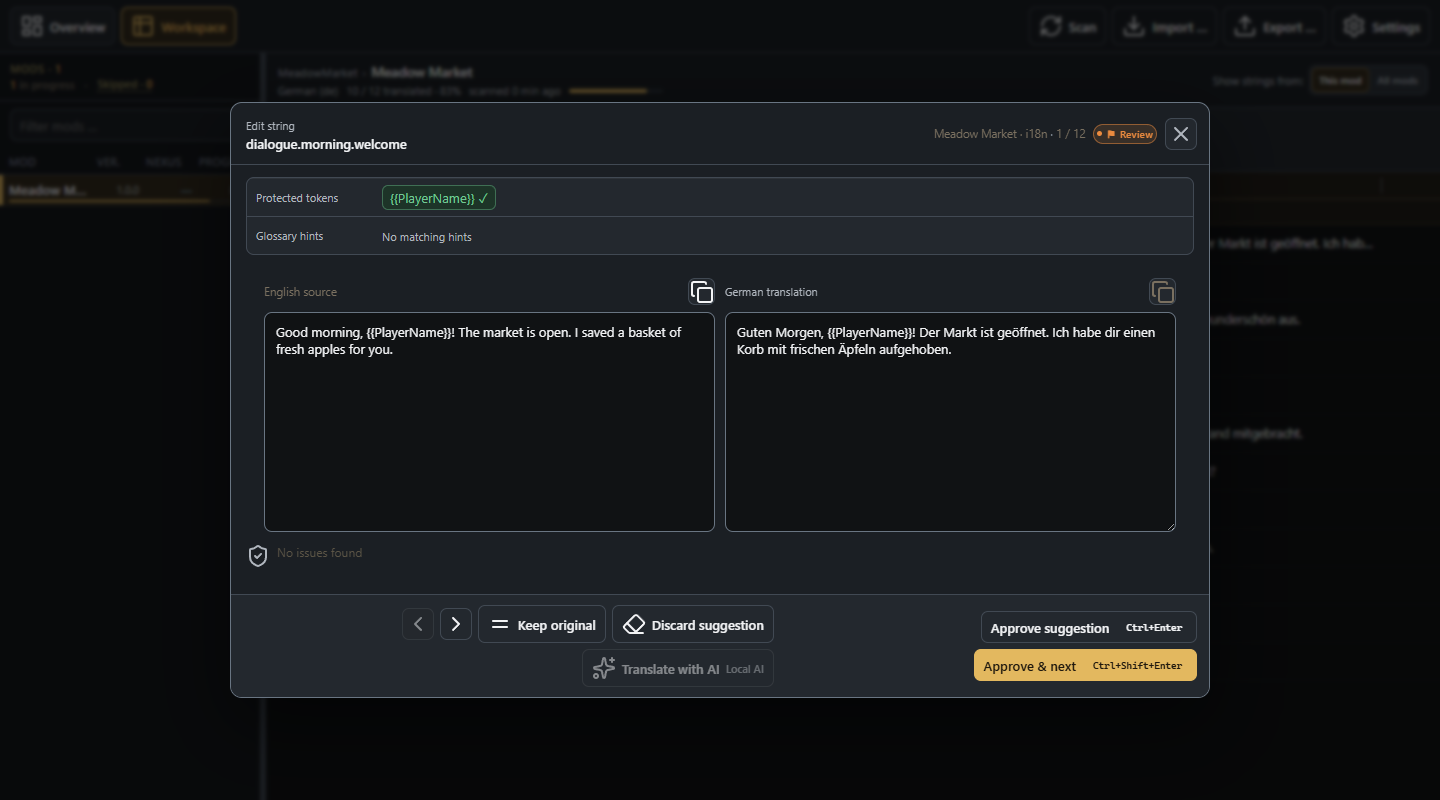
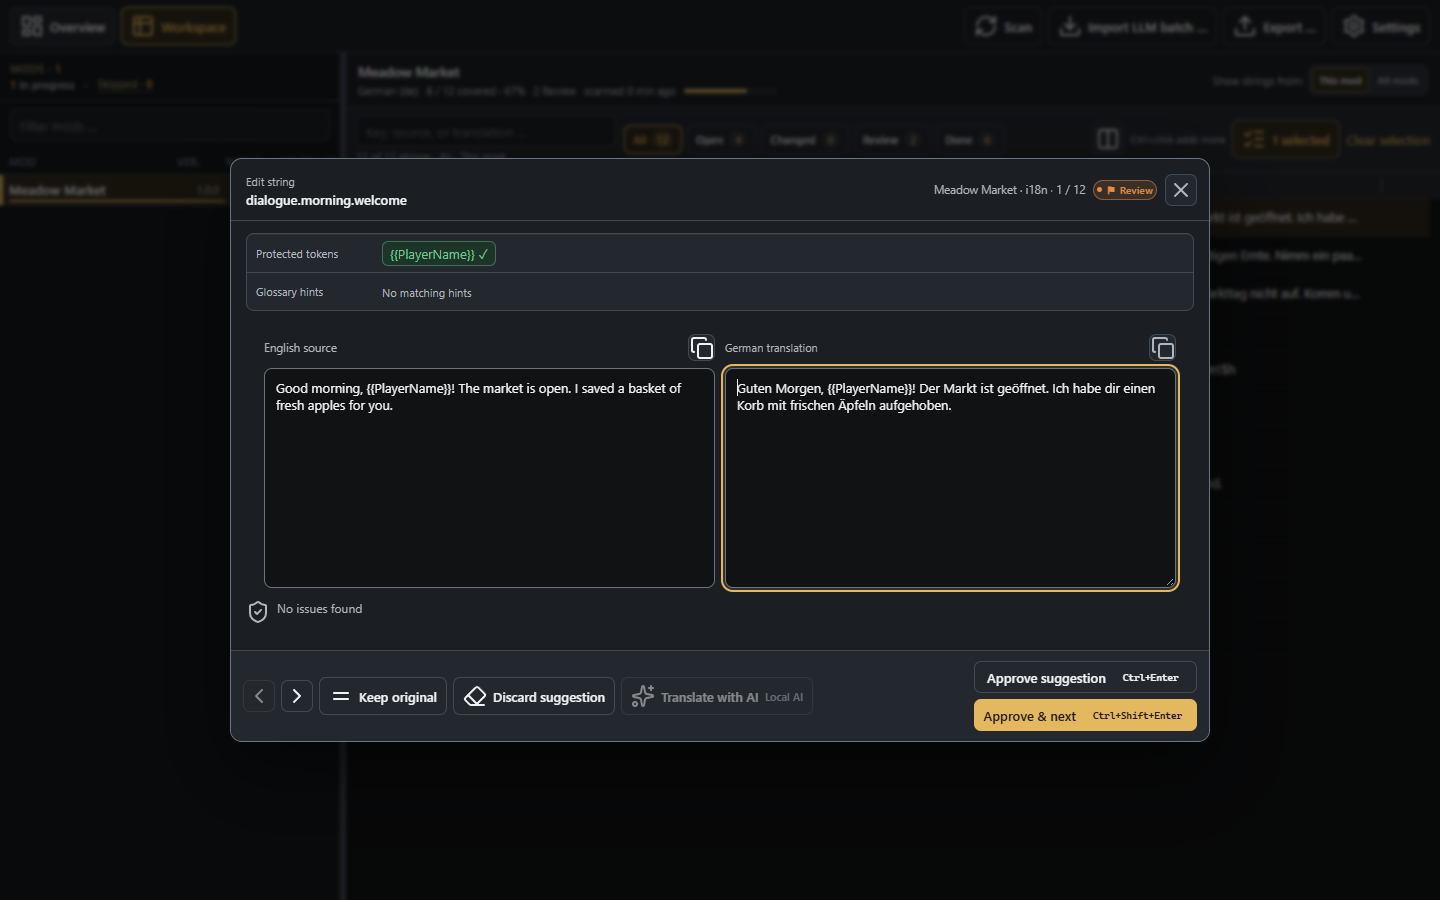
Prepare 2.2.0 release and refresh documentation (#247)

diff --git a/CHANGELOG.md b/CHANGELOG.md
@@ -8,15 +8,40 @@ Per-release notes also live under [`docs/release/`](docs/release/).
 
 ## [Unreleased]
 
+## [2.2.0] - 2026-10-01
+
+### Added
+
+- Sign in with ChatGPT directly from the app, with account model discovery,
+  reasoning controls, usage access, and an encrypted renewable Windows session.
+
 ### Changed
 
 - Fit string columns to the available space, keep mod and file context under the
   key in narrow windows, and provide a control to reset manual column widths.
 - Simplify settings, scan results, AI progress and export previews. Distinguish
   translation coverage from completed reviews.
+- Preserve the source's tone, humor, emotional intent, and character voice across
+  all AI translation languages and quality review.
+- Reduce repeated file reads while saving AI suggestions and key lookups during
+  batch import.
+
+### Fixed
+
+- Scan automatically after initial setup and after changing workspace settings
+  through setup, while cancellation preserves the current workspace.
+- Run Export again through a fresh preview and confirmation, including current
+  validation, instead of repeating a previous write directly.
+- Keep Escape and Tab available for keyboard navigation during shortcut capture.
+- Preserve valid AI drafts and their quality-review warning when a review fails.
+- Prevent simultaneous app instances from writing the same portable profile.
+  Show damaged-settings recovery and incomplete ChatGPT sign-out warnings.
+- Recheck the current package inventory before building a combined output ZIP.
 
 ### Removed
 
+- The separately installed Codex CLI translation backend, replaced by native
+  Sign in with ChatGPT.
 - Translation Notes, including the menu, dialog and generated publication text.
 
 ## [2.1.0] - 2026-09-07
@@ -402,7 +427,8 @@ Initial portable Windows release: mod scanning, the string table/editor with
 validation, protected-token handling, local-AI translation, external LLM batch
 export/import, optional glossary, and clean UTF-8 `i18n` export with backups.
 
-[Unreleased]: https://github.com/Nana1873/stardew-i18n-translator/compare/v2.1.0...HEAD
+[Unreleased]: https://github.com/Nana1873/stardew-i18n-translator/compare/v2.2.0...HEAD
+[2.2.0]: https://github.com/Nana1873/stardew-i18n-translator/compare/v2.1.0...v2.2.0
 [2.1.0]: https://github.com/Nana1873/stardew-i18n-translator/compare/v2.0.3...v2.1.0
 [2.0.3]: https://github.com/Nana1873/stardew-i18n-translator/compare/v2.0.2...v2.0.3
 [2.0.2]: https://github.com/Nana1873/stardew-i18n-translator/compare/v2.0.1...v2.0.2

diff --git a/docs/release/v2.2.0.md b/docs/release/v2.2.0.md
@@ -1,0 +1,14 @@
+# Stardew i18n Translator 2.2.0
+
+Stardew i18n Translator 2.2.0 adds direct ChatGPT sign-in and a more compact translation workspace.
+
+- Sign in with ChatGPT inside the app, choose an account model and reasoning level, and manage usage without installing a CLI.
+- Keep source and translation columns readable in narrow windows, reset column widths with Fit columns, and use simpler settings, progress and export previews.
+- Start scanning automatically after setup and retry exports through a fresh validation preview and confirmation.
+- Preserve the original tone and character voice across AI languages, and retain valid drafts with a visible warning when quality review fails.
+- Protect portable work against simultaneous app instances and show recovery or sign-out problems clearly.
+- Remove the Translation Notes menu and generated publication text.
+
+## Upgrade
+
+Keep the existing data/ folder beside the executable. If you used Codex CLI translation, sign in again through Settings > Translation engines > ChatGPT; the old CLI session is not imported.
